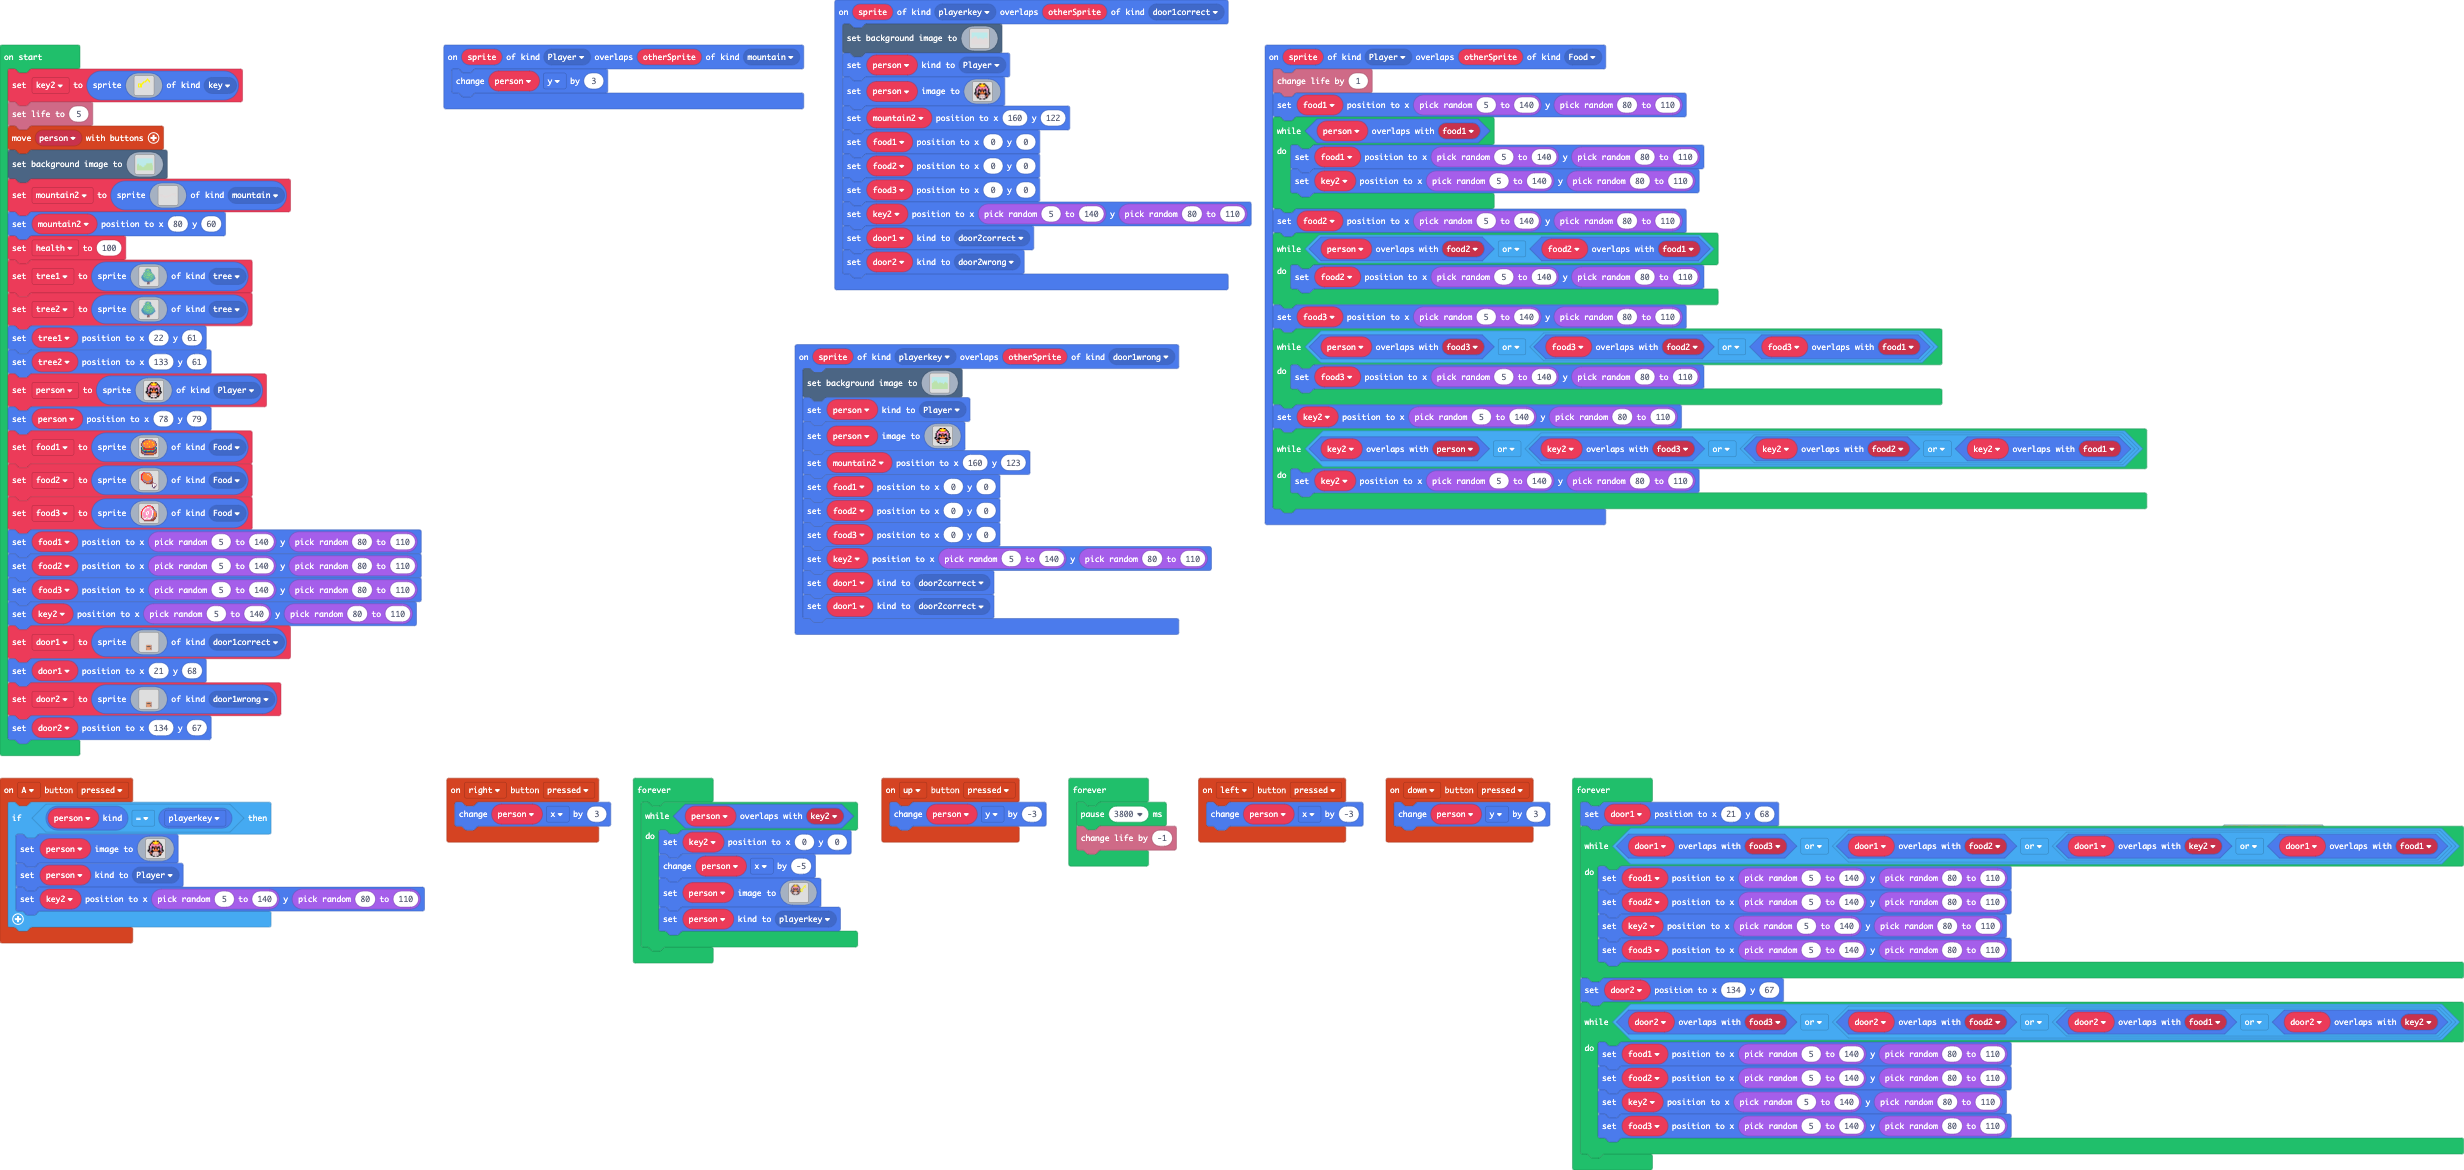
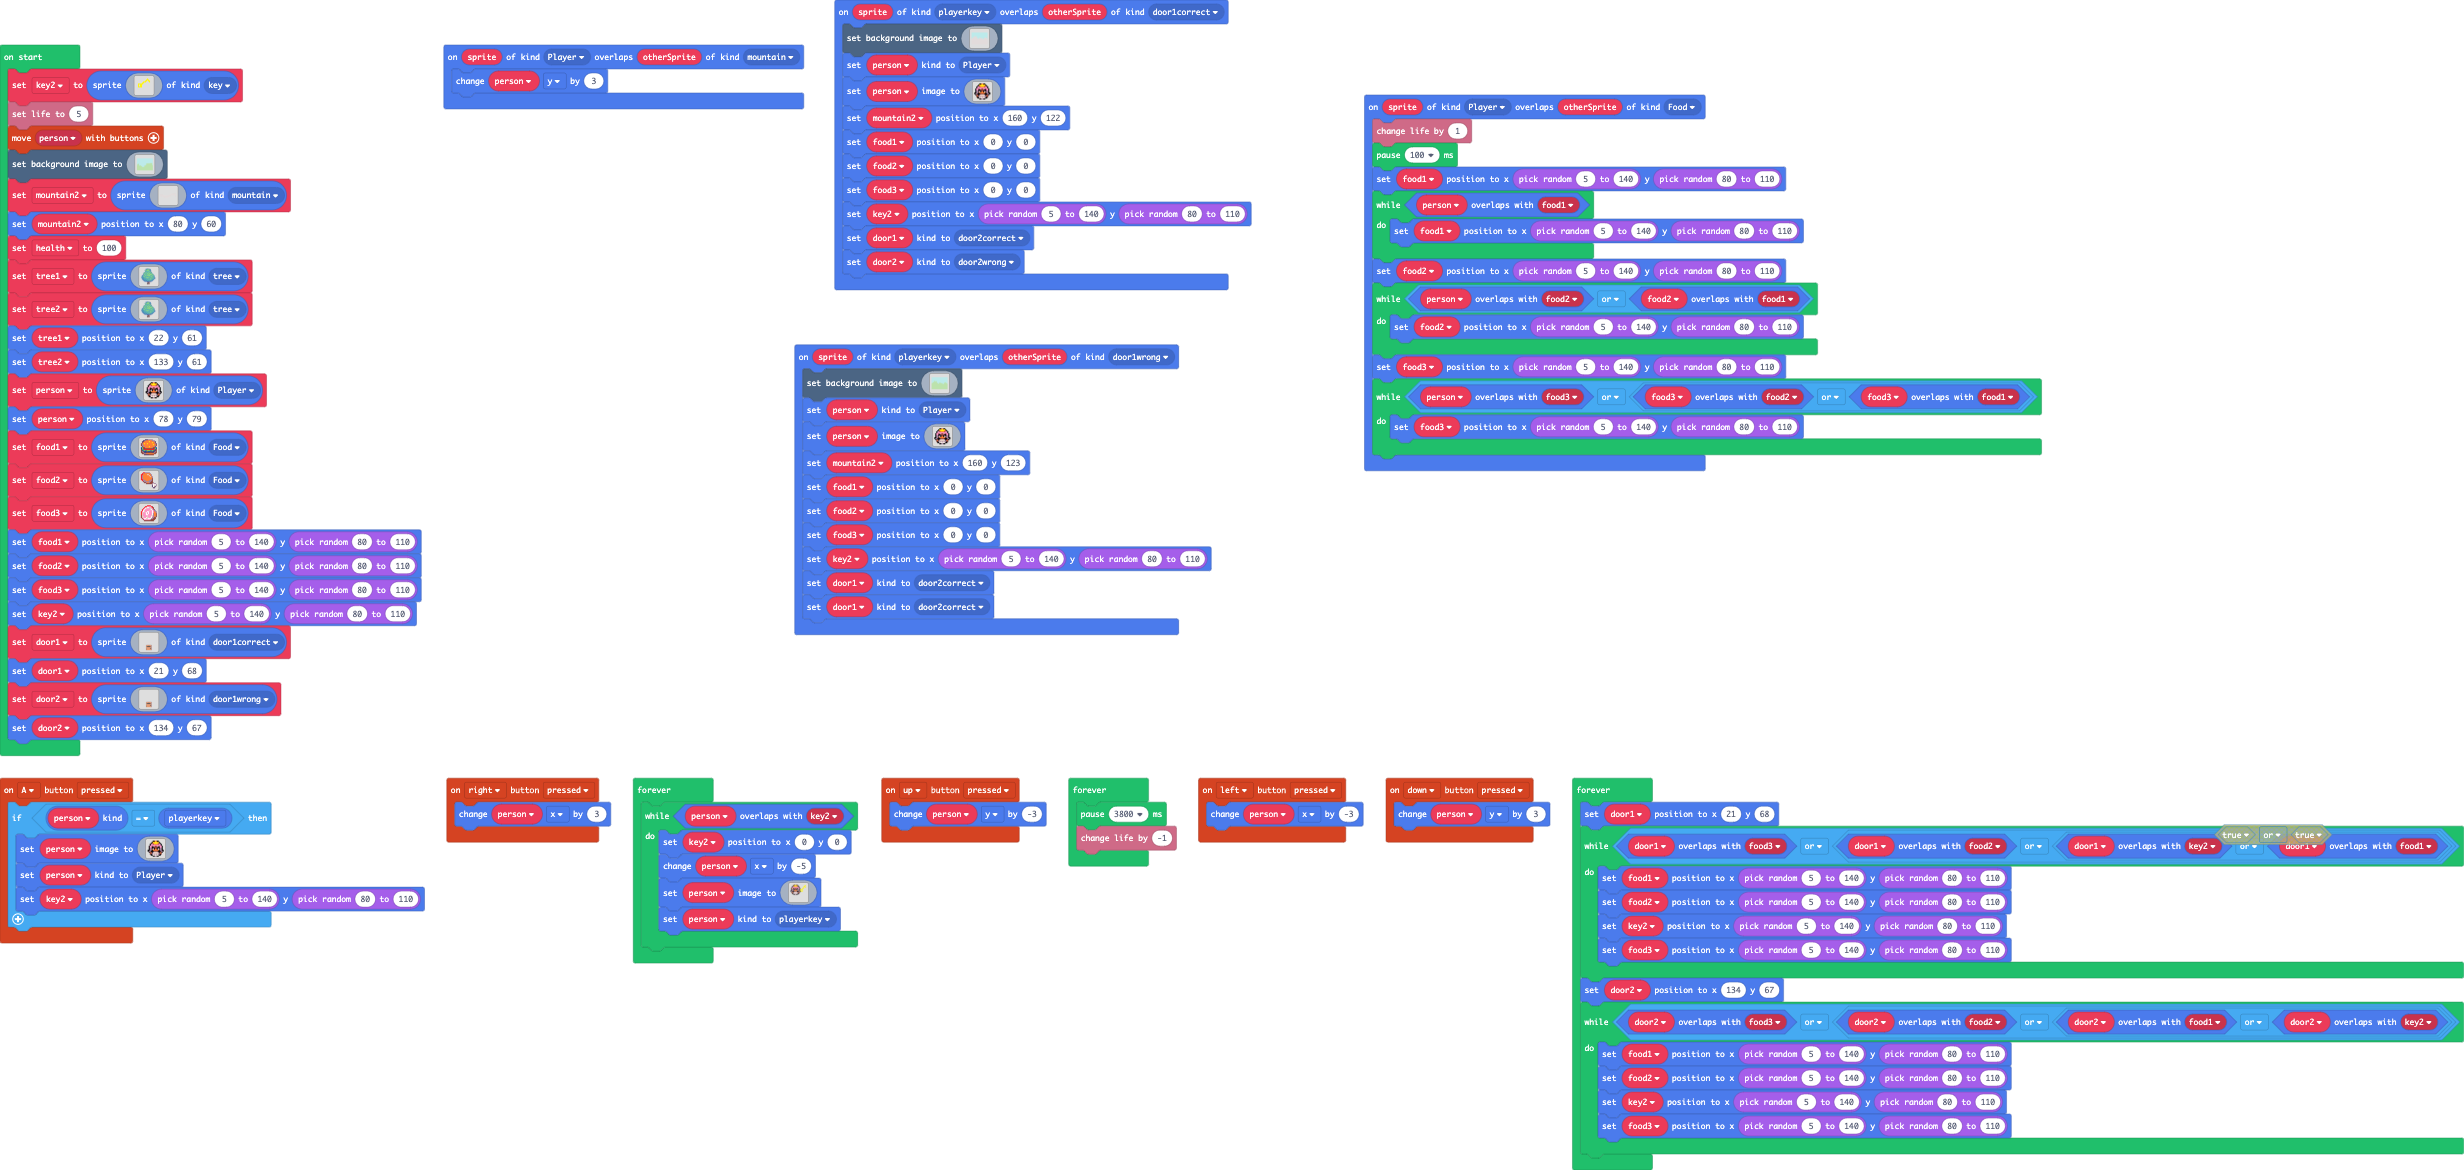
added pause to the overlap section of code as objects were overlapping again

diff --git a/main.ts b/main.ts
@@ -192,10 +192,10 @@ f b b f f f e e e e f f f b b f
 })
 sprites.onOverlap(SpriteKind.Player, SpriteKind.Food, function (sprite, otherSprite) {
     info.changeLifeBy(1)
+    pause(100)
     food1.setPosition(Math.randomRange(5, 140), Math.randomRange(80, 110))
     while (person.overlapsWith(food1)) {
         food1.setPosition(Math.randomRange(5, 140), Math.randomRange(80, 110))
-        key2.setPosition(Math.randomRange(5, 140), Math.randomRange(80, 110))
     }
     food2.setPosition(Math.randomRange(5, 140), Math.randomRange(80, 110))
     while (person.overlapsWith(food2) || food2.overlapsWith(food1)) {
@@ -204,10 +204,6 @@ sprites.onOverlap(SpriteKind.Player, SpriteKind.Food, function (sprite, otherSpr
     food3.setPosition(Math.randomRange(5, 140), Math.randomRange(80, 110))
     while (person.overlapsWith(food3) || (food3.overlapsWith(food2) || food3.overlapsWith(food1))) {
         food3.setPosition(Math.randomRange(5, 140), Math.randomRange(80, 110))
-    }
-    key2.setPosition(Math.randomRange(5, 140), Math.randomRange(80, 110))
-    while (key2.overlapsWith(person) || (key2.overlapsWith(food3) || (key2.overlapsWith(food2) || key2.overlapsWith(food1)))) {
-        key2.setPosition(Math.randomRange(5, 140), Math.randomRange(80, 110))
     }
 })
 controller.A.onEvent(ControllerButtonEvent.Pressed, function () {
